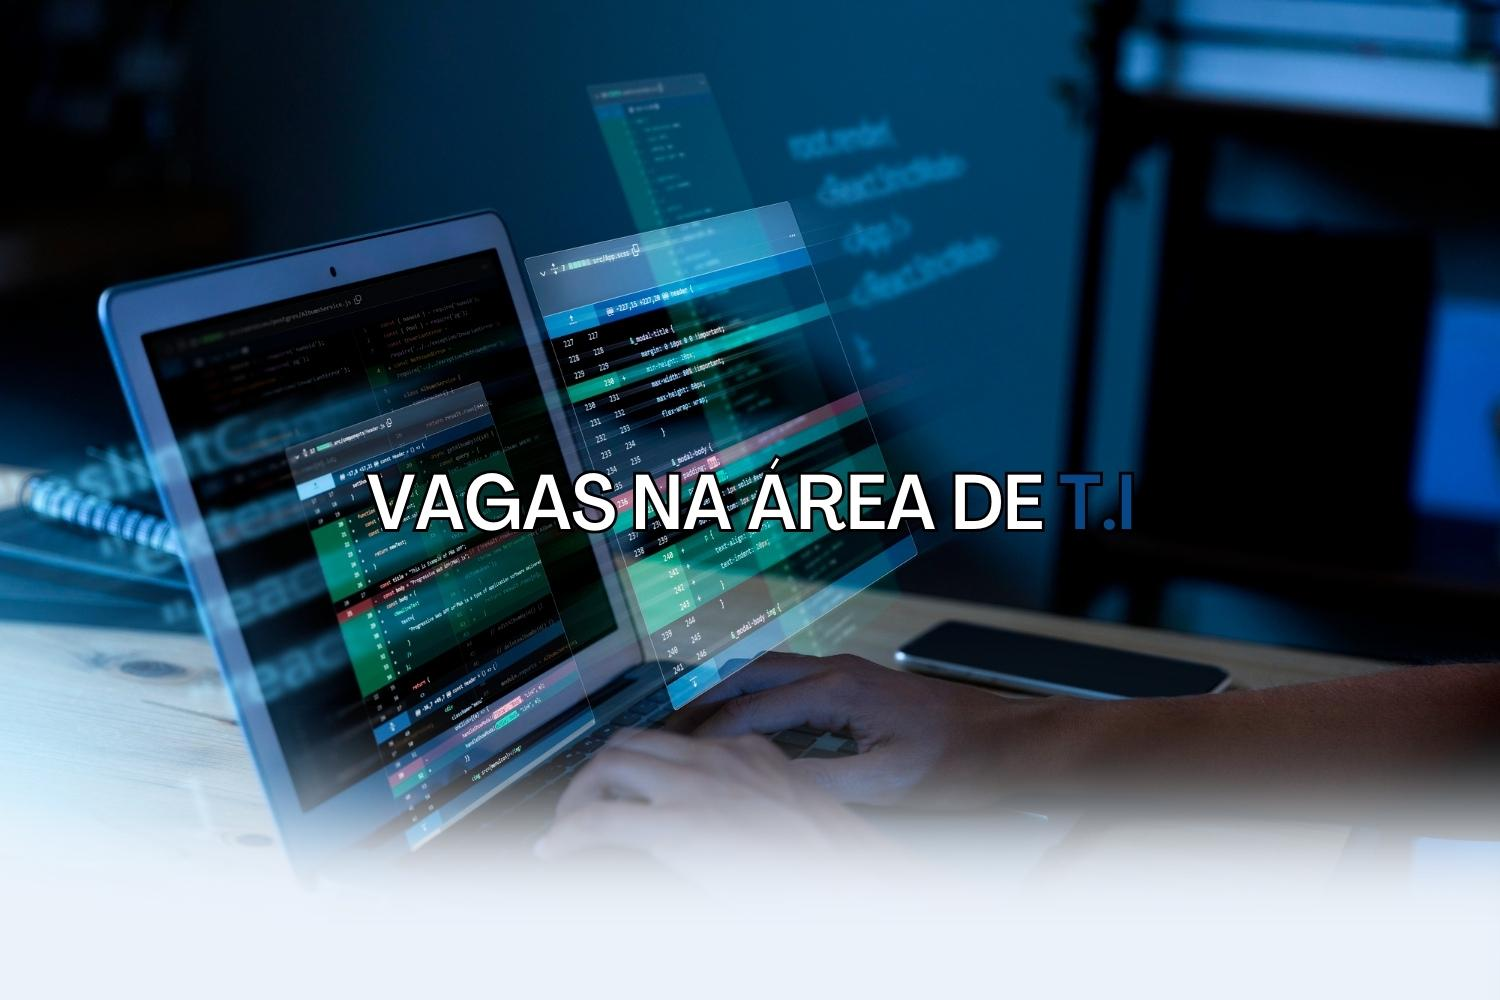
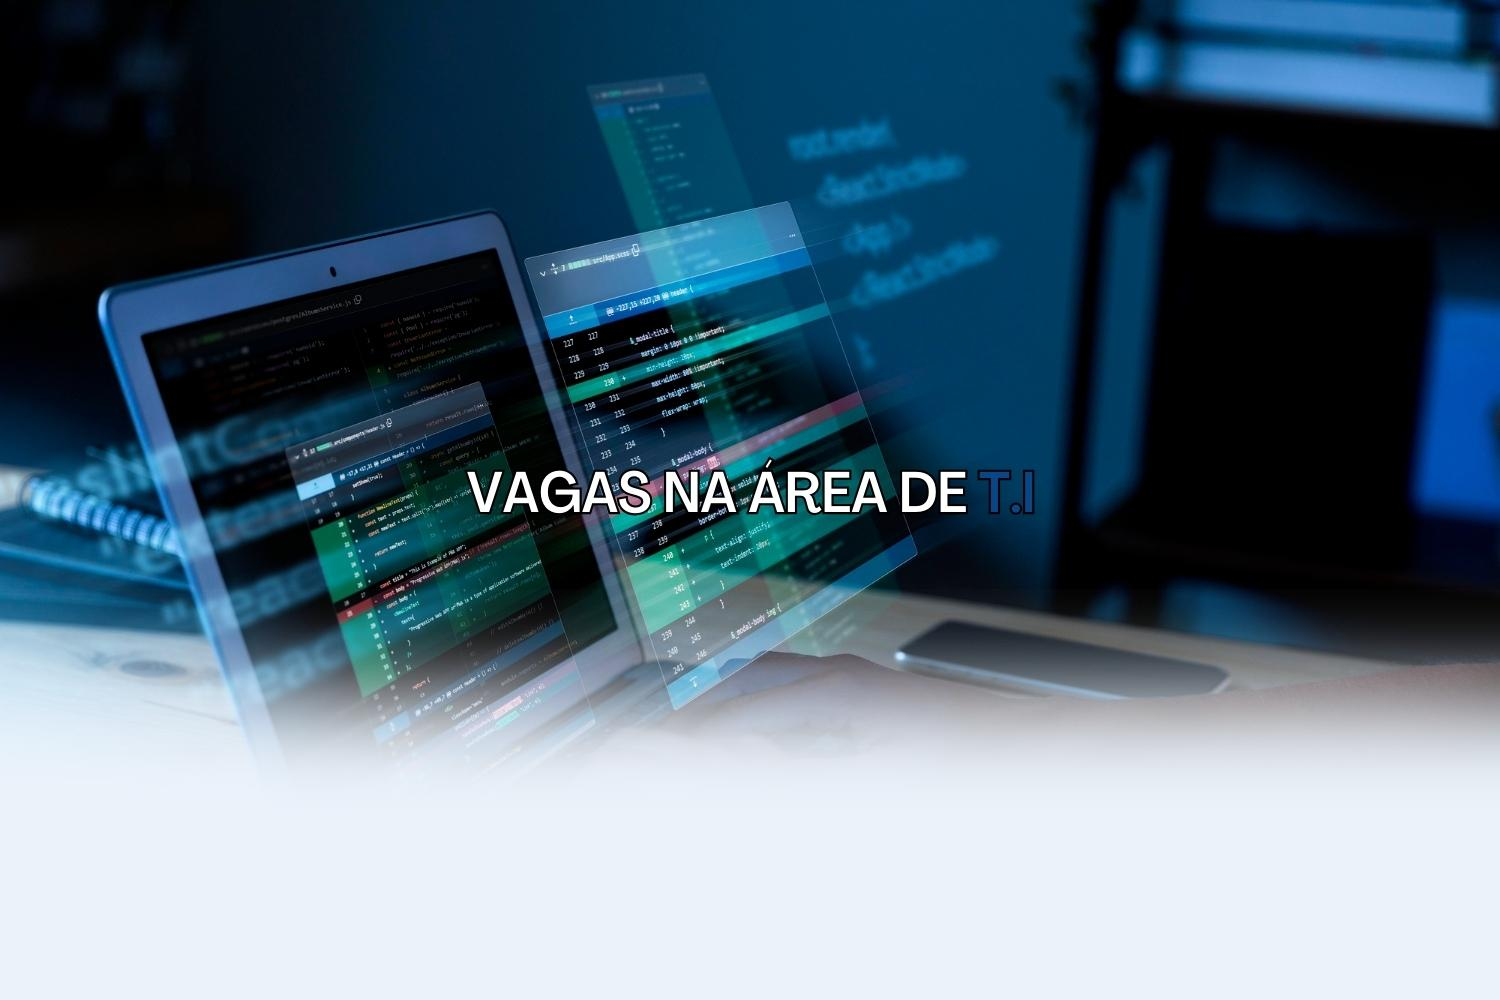
att 3.0
alteração de layout e script de fotos

Changed region(s): [[0.0, 0.62, 1.0, 0.868], [0.2453, 0.465, 0.7667, 0.558]]

diff --git a/HOME.css b/HOME.css
@@ -89,7 +89,7 @@ header { background-color: #064789;
     display: flex;
     align-items: center;
     justify-content: center;
-    margin-top: 50px;
+    margin-top: 200px;
     
     
 }
@@ -119,15 +119,19 @@ header { background-color: #064789;
 }
 
 
-
-.menu-fotos {
-    margin: auto;
+#corpo{
+    margin: 0 auto;
     overflow: hidden;
     height: 800px;
     width: 1400px;
-    display:flex;
-    position: relative;
-    object-fit: cover;
+   
+
+
+}
+.menu-fotos {
+    height: 800px;
+    width: 500%;
+    display: flex;
     
     
     
@@ -137,19 +141,25 @@ header { background-color: #064789;
 
 .menu-fotos input {
     display: none;
-}
+}   
 
 
-.foto img{
-    object-fit: cover;
-    background: cover;
-    height: 800px;
-    width: 1400px;
+.foto {
+    border-bottom: blur 2px white;
+    width: 25%;
+   position: relative;
+   transition: 1s;
     
 
     
         
 }
+
+.foto img {
+    width: 1400px;
+    
+     
+ }
 
 
 
@@ -161,8 +171,8 @@ header { background-color: #064789;
     display: flex;
     position: absolute;
     justify-content: center;
-    margin-left: 23%;
-    margin-top: 50%;
+    align-self: self-end;
+     margin-left: 320px;
     
 
 }
@@ -172,7 +182,7 @@ header { background-color: #064789;
     padding: 6px;
     border-radius: 10px;
     cursor: pointer;
-    transition: 1s;
+    transition: 0,5;
 }
 .manual-btn:hover{
     background-color: #064789;
@@ -182,6 +192,86 @@ header { background-color: #064789;
 .manual-btn:not(:last-child){
     margin-right: 30px;
 }
+
+
+#radio1:checked ~.first{
+    margin-left:0;
+    
+
+}
+
+#radio2:checked ~.first{
+    margin-left: -25%;
+    
+
+}
+#radio3:checked ~.first{
+    margin-left: -50%;
+    
+
+}
+#radio4:checked ~.first{
+    margin-left: -75%;
+    
+
+}
+#radio5:checked ~.first{
+    margin-left: -100%;
+    
+
+}
+
+.navegation-foto div{
+    border: 2px solid #064789 ;
+    padding: 6px;
+    border-radius: 10px;
+    cursor: pointer;
+    transition: 0,5;
+
+}
+
+.navegation-foto {
+    width: 700px;  
+    display: flex;
+    position: absolute;
+    justify-content: center;
+    align-self: self-end;
+     margin-left: 320px;
+
+}
+
+.navegation-foto div:not(:last-child){
+    margin-right: 30px;
+}
+
+
+#radio1:checked ~.navegation-foto .botao-foto1 {
+   background-color: #064789;
+    
+}
+
+#radio2:checked ~.navegation-foto .botao-foto2 {
+    background-color: #064789;
+     
+ }
+
+ #radio3:checked ~.navegation-foto .botao-foto3 {
+    background-color: #064789;
+     
+ }
+
+ #radio4:checked ~.navegation-foto .botao-foto4 {
+    background-color: #064789;
+     
+ }
+
+ #radio5:checked ~.navegation-foto .botao-foto5 {
+    background-color: #064789;
+     
+ }
+
+
+
 
 
 .sobre{

diff --git a/PAGINA HOME.html b/PAGINA HOME.html
@@ -8,6 +8,7 @@
   
 </head>
 <body>
+    <!-- cabecalho--> 
   <header>
    <span id="logo" ><img src="LOGO.png" width="80px" height="75px"> </span>
    <span id="menu">
@@ -20,7 +21,9 @@
 
    </span>
  </header>
+<!-- fim cabecalho--> 
 
+<!-- inicio menu fotos--> 
  <div id="corpo">
     
         <div class="menu-fotos">
@@ -31,7 +34,7 @@
         <input type="radio" name="radio-btn" id="radio4">
         <input type="radio" name="radio-btn" id="radio5">
 
-        <div class="foto">
+        <div class="foto first">
         <a href="pgcadastro.html"> <img src= "IMAGENS\TI.jpg" alt="ti" ></a>
         </div>
 
@@ -71,7 +74,7 @@
         <!-- fim menu fotos-->   
         
         
-        
+    <!-- div com icones e div com texto abaixo do menu fotos-->     
         <div class="descricao-pg">
             <div class="icone">
                 <img src="icone\free.png" width="70px" height="65px">
@@ -94,11 +97,11 @@
                 Cadastre-se e tenha acesso a inúmeras vagas.
             </h1>
         </div>
+        <!-- fim div com icone e texto--> 
 
 
 
-
-<!-- estilização parte final--> 
+<!-- inicio sobre,contato e missao--> 
 
 <div class="sobre">
 
@@ -144,7 +147,9 @@
     </div>
 
 </div>
-  
+  <!-- fim div sobre...--> 
+
+  <!-- roda pe --> 
  <footer>
 
     <div class="imagensfooter">
@@ -164,6 +169,8 @@
     
         
  </footer>
+<!-- fim roda pe --> 
 
+<script src="scripthome.js"></script>
   </body>
 </html>

diff --git a/pgcadastroCSS.css b/pgcadastroCSS.css
@@ -107,7 +107,7 @@ select {
     padding: 10px;
     margin-top: 5px;
     border: none;
-    border-bottom: 2px solid #064789;
+    border-bottom: 1px solid #064789;
     background-color: transparent;
     color: #064789;
     transition: border-bottom 0.2s;
@@ -119,6 +119,7 @@ select {
 input[type="text"]:focus,
 input[type="email"]:focus,
 input[type="tel"]:focus,
+input[type="date"],
 select:focus {
     border-bottom: 2px solid #EBF2FA; /* Roxo escuro */
     outline: none;

diff --git a/scripthome.js b/scripthome.js
@@ -1,0 +1,17 @@
+let count = 1;
+document.getElementById("radio1").checked = true;
+
+setInterval( function(){
+    nextimage();
+
+},8000)
+
+function nextimage(){
+
+    count++;
+    if (count>5){
+        count=1;
+    }
+
+    document.getElementById("radio"+count).checked = true;
+}
